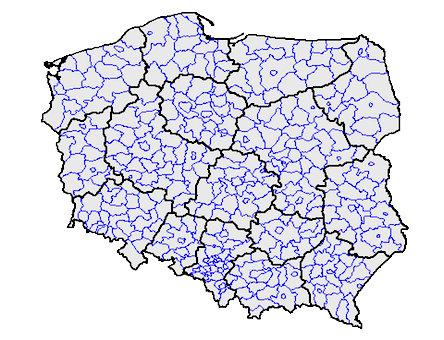
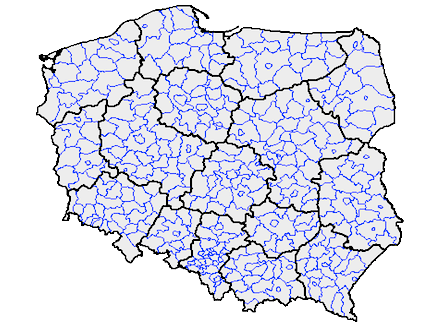
Instead of using poland map image padding, resize it

diff --git a/index.html b/index.html
@@ -27,7 +27,7 @@
     <div class="span6">
       <div style="height: 324px;">
         <canvas id="picture" width="432" height="324"></canvas>
-        <img id="poland_map" src="img/poland_cc.png" style="margin: -7px 0 0 -5px; height: 340px; width: 444px;"/>
+        <img id="poland_map" src="img/poland_cc.png" />
       </div>
       <div class="btn-toolbar text-center" style="margin-top: 22px;">
         <div class="btn-group">
